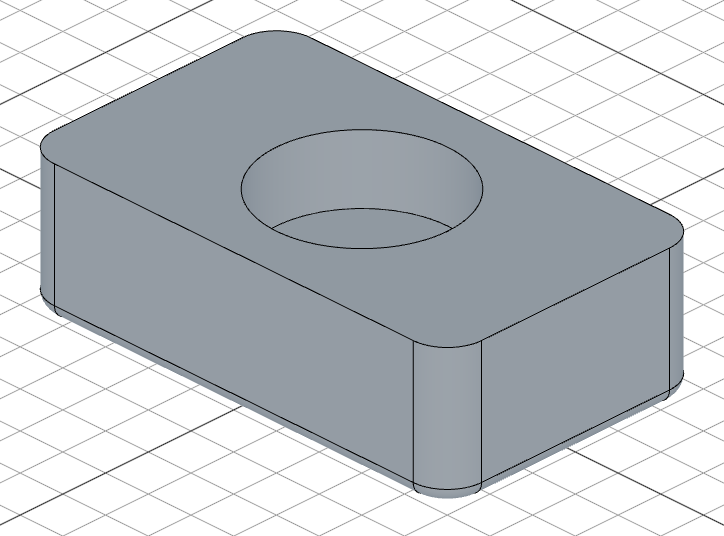
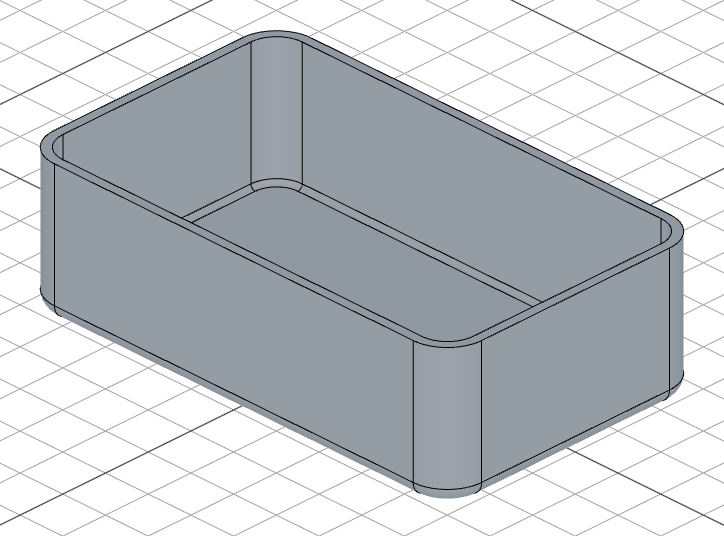
update your first model example

diff --git a/website/docs/getting-started/_examples/first-model-final.js b/website/docs/getting-started/_examples/first-model-final.js
@@ -1,5 +1,5 @@
-import { sketch, extrude, cut, fillet } from 'fluidcad/core';
-import { rect, circle } from 'fluidcad/core';
+import { sketch, extrude, fillet, shell } from 'fluidcad/core';
+import { rect } from 'fluidcad/core';
 
 sketch("xy", () => {
     rect(100, 60).center().radius(8)
@@ -7,10 +7,6 @@ sketch("xy", () => {
 
 const box = extrude(30)
 
-sketch(box.endFaces(), () => {
-    circle(40)
-})
-
-cut(15)
-
 fillet(3, box.startEdges())
+
+shell(-2, box.endFaces())

diff --git a/website/docs/getting-started/_examples/first-model-step5.js b/website/docs/getting-started/_examples/first-model-step5.js
@@ -1,5 +1,5 @@
-import { sketch, extrude, cut } from 'fluidcad/core';
-import { rect, circle } from 'fluidcad/core';
+import { sketch, extrude, fillet } from 'fluidcad/core';
+import { rect } from 'fluidcad/core';
 
 sketch("xy", () => {
     rect(100, 60).center().radius(8)
@@ -7,8 +7,4 @@ sketch("xy", () => {
 
 const box = extrude(30)
 
-sketch(box.endFaces(), () => {
-    circle(40)
-})
-
-cut(15)
+fillet(3, box.startEdges())
